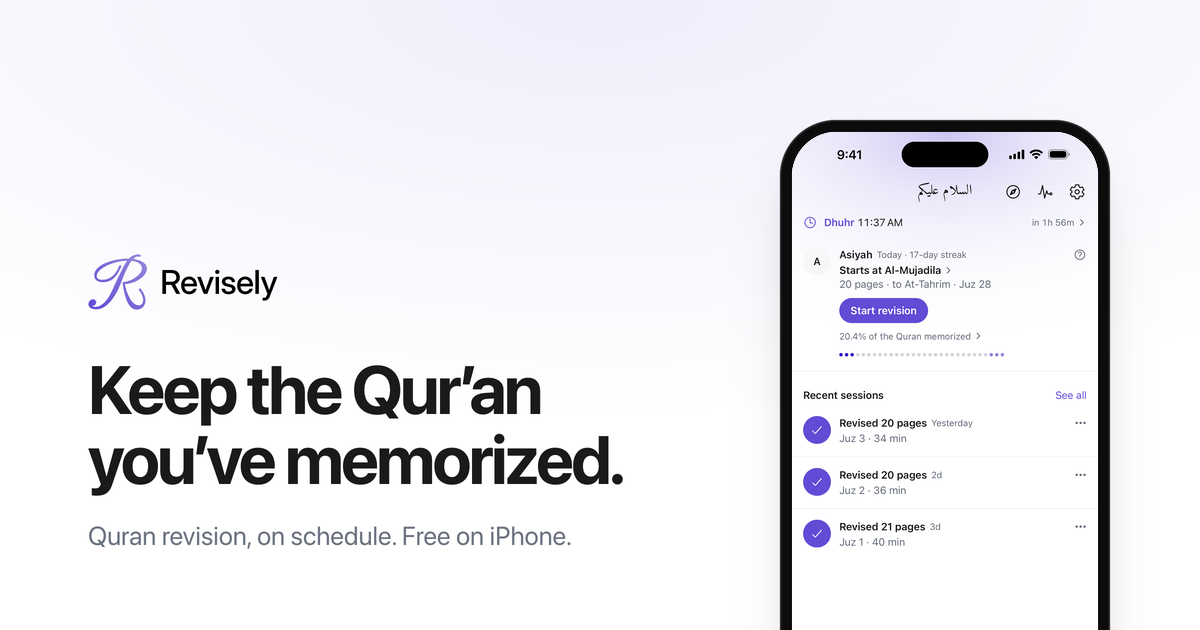
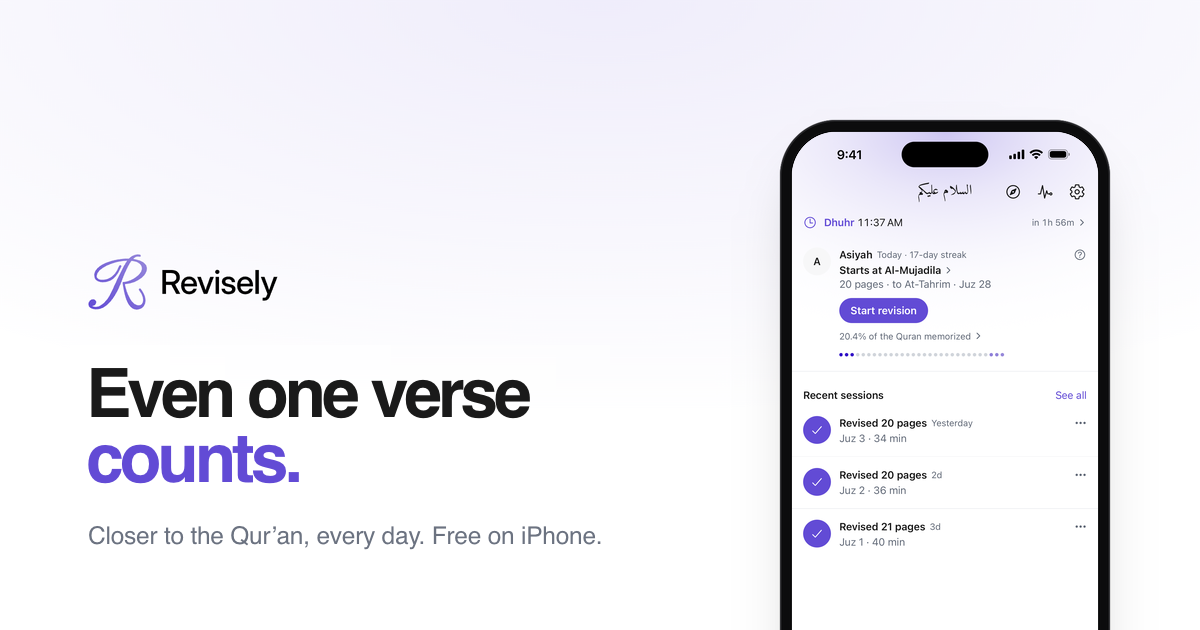
dev.revisely.app's link preview says the app's line: "Even one verse counts."
Majd (Nov 27 2026): "yes lock it in". The share image (docs/assets/img/og.png) still said "Keep the Qur'an you've
memorized." in the picture. Its words are now "Even one verse counts." ("counts." in Indigo, as on the app's welcome)
and "Closer to the Qur’an, every day. Free on iPhone.", drawn in SF Pro at the old words' size and place; the logo and
the phone are as they were. On develop only, so dev.revisely.app; the site's own words are the website session's.

Changed region(s): [[0.0617, 0.573, 0.5242, 0.7841], [0.0617, 0.8143, 0.4933, 0.8746]]

diff --git a/scripts/site-clips/README.md b/scripts/site-clips/README.md
@@ -140,3 +140,9 @@ clock line painted out. The section's first set came from runs 43997254931 (ligh
 `python3 scripts/site-clips/stills.py` puts the App Store Home screenshot
 (`store/screenshots/01-home.png`) into the phone in `docs/assets/img/og.png`, the link preview. Run
 it again whenever that screenshot is retaken.
+
+The words on its left are part of the picture. Since Nov 28 2026 they are the app's line (Majd: "yes lock it in"):
+"Even one verse counts." with "counts." in Indigo (#624BD5), and "Closer to the Qur’an, every day. Free on iPhone."
+They were drawn in Chrome with the system font (SF Pro), at the old words' size and place, over the old words cleared
+to the ground: the headline 68 px bold, line height 65 px, letter spacing −0.06em, its top at 362 px; the line under it
+24.5 px, #6B7280, its top at 518 px; both starting 86–88 px from the left. Draw them the same way if they change.
